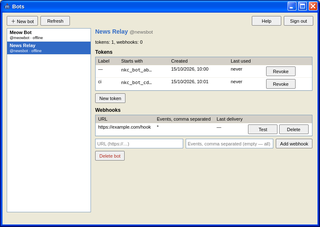
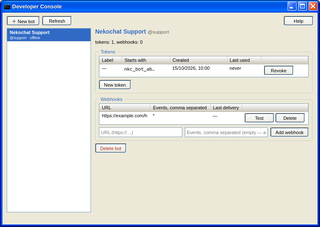
Developer Console: the add-on (was Bots) uses the session of the app instead of a second sign-in, its buttons are in the theme's XP style, group boxes and list headers like XP

Changed region(s): [[0.0, 0.0, 1.0, 0.7093], [0.7812, 0.0617, 1.0, 0.1233], [0.3125, 0.1233, 0.5312, 0.1542]]

diff --git a/addons/bots/bots.js b/addons/bots/bots.js
@@ -1,17 +1,19 @@
-// Bots: create bots of your Nekochat account, issue and revoke their tokens, add webhooks and
+// Developer Console: create bots of your Nekochat account, issue and revoke their tokens, add webhooks and
 // test them (the Bot API, /api/bot). The same as the server's /devpanel, in a window of the
-// client. The sign-in token is kept in this window's memory only; it is never stored.
+// client. It uses the session of the client (the same token, no second sign-in); only when there
+// is none for this server does it ask for a user name and a password. A token is kept in this
+// window's memory only; the window never stores one.
 const $ = selector => document.querySelector(selector);
 const controls = window.windowControls || {};
 const rawServer = new URLSearchParams(location.search || location.hash.slice(1)).get('server') || '';
 const server = /^https?:\/\//i.test(rawServer) ? rawServer.replace(/\/+$/, '') : 'https://nekochat.komdu.is-cool.dev';
 const esc = value => String(value ?? '').replace(/[&<>"']/g, char => ({ '&': '&amp;', '<': '&lt;', '>': '&gt;', '"': '&quot;', "'": '&#039;' })[char]);
 const words = {
-  ru: { help: 'Справка', title: 'Боты', loginTitle: 'Вход', loginHint: 'Войдите своим аккаунтом Nekochat: боты принадлежат аккаунту.', username: 'Имя пользователя', password: 'Пароль', signIn: 'Войти', logout: 'Выйти', refresh: 'Обновить', newBot: '＋ Новый бот', botUsername: 'Имя бота (3–32 символа: буквы, цифры, _ . -)', botName: 'Отображаемое имя', create: 'Создать', cancel: 'Отмена', close: 'Закрыть', minimize: 'Свернуть', maximize: 'Развернуть', ok: 'ОК', copy: 'Копировать', copied: 'Скопировано',
+  ru: { help: 'Справка', title: 'Консоль разработчика', loginTitle: 'Вход', loginHint: 'Нужен вход в аккаунт Nekochat на этом сервере: боты принадлежат аккаунту. Если вы уже вошли в клиенте, этого окна вы не увидите.', username: 'Имя пользователя', password: 'Пароль', signIn: 'Войти', logout: 'Выйти', refresh: 'Обновить', newBot: '＋ Новый бот', botUsername: 'Имя бота (3–32 символа: буквы, цифры, _ . -)', botName: 'Отображаемое имя', create: 'Создать', cancel: 'Отмена', close: 'Закрыть', minimize: 'Свернуть', maximize: 'Развернуть', ok: 'ОК', copy: 'Копировать', copied: 'Скопировано',
     wrongLogin: 'Неверное имя или пароль.', loading: 'Загрузка…', done: 'Готово.', noBots: 'Ботов пока нет. Нажмите «Новый бот».', pickBot: 'Выберите бота слева.', bot: 'Бот', state: 'Состояние', online: 'в сети', offline: 'не в сети', tokens: 'Токены', webhooks: 'Вебхуки', remove: 'Удалить бот', revoke: 'Отозвать', revoked: 'отозван', label: 'Метка', prefix: 'Начало', created: 'Создан', lastUsed: 'Использован', never: 'ни разу', newToken: 'Новый токен', addWebhook: 'Добавить вебхук', url: 'Адрес (https://…)', events: 'События через запятую (пусто — все)', test: 'Проверить', delete: 'Удалить', lastDelivery: 'Последняя доставка', noTokens: 'Токенов нет.', noWebhooks: 'Вебхуков нет.', counts: 'токенов: {tokens}, вебхуков: {webhooks}',
     tokenTitle: 'Токен бота', tokenNote: 'Скопируйте токен сейчас: больше он не покажется. Он работает как пароль бота (Authorization: Bearer … или /ws?token=…).', secretTitle: 'Секрет вебхука', secretNote: 'Скопируйте секрет сейчас: больше он не покажется. Им подписывается каждый вызов (X-Neko-Signature: sha256=HMAC-SHA256).',
     confirmBot: 'Удалить бота {name} вместе с его токенами, вебхуками и сообщениями? Это нельзя отменить.', confirmRevoke: 'Отозвать этот токен? Бот с ним перестанет работать.', confirmWebhook: 'Удалить этот вебхук?', tokenLabel: 'Метка токена (необязательно)', testOk: 'Вебхук ответил: HTTP {status}.', testFail: 'Вебхук не ответил как надо: HTTP {status}.', sessionLost: 'Сессия закончилась. Войдите снова.' },
-  en: { help: 'Help', title: 'Bots', loginTitle: 'Sign in', loginHint: 'Sign in with your Nekochat account: bots belong to the account.', username: 'User name', password: 'Password', signIn: 'Sign in', logout: 'Sign out', refresh: 'Refresh', newBot: '＋ New bot', botUsername: 'Bot user name (3–32 characters: letters, digits, _ . -)', botName: 'Display name', create: 'Create', cancel: 'Cancel', close: 'Close', minimize: 'Minimize', maximize: 'Maximize', ok: 'OK', copy: 'Copy', copied: 'Copied',
+  en: { help: 'Help', title: 'Developer Console', loginTitle: 'Sign in', loginHint: 'Sign in with your Nekochat account on this server: bots belong to the account. If you are already signed in in the app, you will not see this.', username: 'User name', password: 'Password', signIn: 'Sign in', logout: 'Sign out', refresh: 'Refresh', newBot: '＋ New bot', botUsername: 'Bot user name (3–32 characters: letters, digits, _ . -)', botName: 'Display name', create: 'Create', cancel: 'Cancel', close: 'Close', minimize: 'Minimize', maximize: 'Maximize', ok: 'OK', copy: 'Copy', copied: 'Copied',
     wrongLogin: 'Wrong user name or password.', loading: 'Loading…', done: 'Done.', noBots: 'No bots yet. Click “New bot”.', pickBot: 'Pick a bot on the left.', bot: 'Bot', state: 'State', online: 'online', offline: 'offline', tokens: 'Tokens', webhooks: 'Webhooks', remove: 'Delete bot', revoke: 'Revoke', revoked: 'revoked', label: 'Label', prefix: 'Starts with', created: 'Created', lastUsed: 'Last used', never: 'never', newToken: 'New token', addWebhook: 'Add webhook', url: 'URL (https://…)', events: 'Events, comma separated (empty — all)', test: 'Test', delete: 'Delete', lastDelivery: 'Last delivery', noTokens: 'No tokens.', noWebhooks: 'No webhooks.', counts: 'tokens: {tokens}, webhooks: {webhooks}',
     tokenTitle: 'Bot token', tokenNote: 'Copy the token now: it is shown only once. It works as the bot’s password (Authorization: Bearer … or /ws?token=…).', secretTitle: 'Webhook secret', secretNote: 'Copy the secret now: it is shown only once. It signs every call (X-Neko-Signature: sha256=HMAC-SHA256).',
     confirmBot: 'Delete the bot {name} with its tokens, webhooks and messages? This cannot be undone.', confirmRevoke: 'Revoke this token? The bot using it stops working.', confirmWebhook: 'Delete this webhook?', tokenLabel: 'Token label (optional)', testOk: 'The webhook answered: HTTP {status}.', testFail: 'The webhook did not answer as expected: HTTP {status}.', sessionLost: 'The session ended. Sign in again.' },
@@ -37,6 +39,7 @@ function ask(text, withInput = false) {
   });
 }
 let jwt = '';
+let usingClient = false; // the token is the client's own: nothing to sign out of here
 let bots = [];
 let selected = null;
 let tokens = [];
@@ -45,12 +48,12 @@ const status = text => { $('#bots-status').textContent = text || ''; };
 async function api(path, { method = 'GET', body } = {}) {
   const response = await fetch(`${server}${path}`, { method, headers: { ...(jwt ? { Authorization: `Bearer ${jwt}` } : {}), ...(body ? { 'Content-Type': 'application/json' } : {}) }, body: body ? JSON.stringify(body) : undefined });
   const data = await response.json().catch(() => ({}));
-  if (response.status === 401 && jwt) { signOut(t('sessionLost')); throw new Error(t('sessionLost')); }
+  if (response.status === 401 && jwt) { signOut(t('sessionLost')); $('#bots-logout').hidden = false; throw new Error(t('sessionLost')); }
   if (!response.ok) throw new Error(typeof data?.detail === 'string' ? data.detail : `HTTP ${response.status}`);
   return data;
 }
 function showLogin(error = '') { $('#bots-login').hidden = false; $('#bots-panel').hidden = true; $('#bots-login-error').textContent = error; $('#bots-username').focus(); }
-function signOut(error = '') { jwt = ''; bots = []; selected = null; showLogin(error); }
+function signOut(error = '') { jwt = ''; usingClient = false; bots = []; selected = null; showLogin(error); }
 
 function renderList() {
   $('#bots-list').innerHTML = bots.length
@@ -64,12 +67,12 @@ function renderDetail() {
   const hookRows = hooks.length ? hooks.map(hook => `<tr data-hook="${hook.id}"><td class="bots-url">${esc(hook.url)}</td><td>${esc(hook.events || '*')}</td><td>${hook.last_status == null ? '—' : esc(`HTTP ${hook.last_status}`)}${hook.last_at ? `<br><small>${esc(time(hook.last_at))}</small>` : ''}</td><td><button type="button" data-action="test">${esc(t('test'))}</button> <button type="button" data-action="delete-hook">${esc(t('delete'))}</button></td></tr>`).join('') : `<tr><td colspan="4" class="bots-empty">${esc(t('noWebhooks'))}</td></tr>`;
   $('#bots-detail').innerHTML = `<h2>${esc(bot.display_name || bot.username)} <small>@${esc(bot.username)}</small></h2>
     <p>${esc(t('counts', { tokens: bot.token_count ?? tokens.length, webhooks: bot.webhook_count ?? hooks.length }))}</p>
-    <h3>${esc(t('tokens'))}</h3>
+    <fieldset class="bots-group"><legend>${esc(t('tokens'))}</legend>
     <div class="bots-table-wrap"><table class="bots-table"><tr><th>${esc(t('label'))}</th><th>${esc(t('prefix'))}</th><th>${esc(t('created'))}</th><th>${esc(t('lastUsed'))}</th><th></th></tr>${tokenRows}</table></div>
-    <div class="bots-row"><button type="button" data-action="new-token">${esc(t('newToken'))}</button></div>
-    <h3>${esc(t('webhooks'))}</h3>
+    <div class="bots-row"><button type="button" data-action="new-token">${esc(t('newToken'))}</button></div></fieldset>
+    <fieldset class="bots-group"><legend>${esc(t('webhooks'))}</legend>
     <div class="bots-table-wrap"><table class="bots-table"><tr><th>URL</th><th>${esc(t('events').split(' (')[0])}</th><th>${esc(t('lastDelivery'))}</th><th></th></tr>${hookRows}</table></div>
-    <form class="bots-row bots-hook-form" id="bots-hook-form"><input id="hook-url" type="url" placeholder="${esc(t('url'))}" required><input id="hook-events" placeholder="${esc(t('events'))}"><button type="submit">${esc(t('addWebhook'))}</button></form>
+    <form class="bots-row bots-hook-form" id="bots-hook-form"><input id="hook-url" type="url" placeholder="${esc(t('url'))}" required><input id="hook-events" placeholder="${esc(t('events'))}"><button type="submit">${esc(t('addWebhook'))}</button></form></fieldset>
     <div class="bots-row"><button type="button" data-action="delete-bot" class="bots-danger">${esc(t('remove'))}</button></div>`;
 }
 async function loadBots() { status(t('loading')); bots = await api('/api/bot'); if (!bots.some(bot => bot.id === selected)) selected = null; renderList(); await loadDetail(); status(''); }
@@ -116,7 +119,7 @@ $('#bots-login').onsubmit = async event => {
     const response = await fetch(`${server}/auth/login`, { method: 'POST', headers: { 'Content-Type': 'application/json' }, body: JSON.stringify({ username: $('#bots-username').value.trim(), password: $('#bots-password').value }) });
     const data = await response.json().catch(() => ({}));
     if (!response.ok || !data.access_token) { showLogin(response.status === 401 || response.status === 400 ? t('wrongLogin') : (typeof data.detail === 'string' ? data.detail : `HTTP ${response.status}`)); return; }
-    jwt = data.access_token; $('#bots-password').value = '';
+    jwt = data.access_token; usingClient = false; $('#bots-password').value = ''; $('#bots-logout').hidden = false;
     $('#bots-login').hidden = true; $('#bots-panel').hidden = false; renderDetail(); await loadBots();
   } catch (error) { showLogin(error.message); }
 };
@@ -133,7 +136,17 @@ $('#bots-logout').onclick = () => signOut();
 $('#close').onclick = () => controls.close?.(); $('#minimize').onclick = () => controls.minimize?.(); $('#maximize').onclick = () => controls.maximize?.();
 controls.getActiveTheme?.().then(theme => { if (theme?.cssUrl) $('#frame-theme').href = theme.cssUrl; }); controls.onThemeChanged?.(theme => { if (theme?.cssUrl) $('#frame-theme').href = theme.cssUrl; });
 controls.getDisplaySettings?.().then(display => { language = display?.language === 'en' ? 'en' : 'ru'; applyText(); }); controls.onDisplayChanged?.(display => { language = display?.language === 'en' ? 'en' : 'ru'; applyText(); });
-applyText(); showLogin();
+applyText();
+// The client keeps its session in localStorage (the same origin as this window); use it when it is for this server.
+async function startWithClientSession() {
+  let saved = '', savedServer = '';
+  try { saved = localStorage.getItem('nk_token') || ''; savedServer = (localStorage.getItem('nk_server_url') || '').replace(/\/+$/, ''); } catch {}
+  if (!saved || savedServer !== server) { showLogin(); return; }
+  jwt = saved; usingClient = true;
+  try { $('#bots-login').hidden = true; $('#bots-panel').hidden = false; $('#bots-logout').hidden = true; renderDetail(); await loadBots(); }
+  catch { if (usingClient) { signOut(); } $('#bots-logout').hidden = false; }
+}
+startWithClientSession();
 // XP click sound on buttons, like in the chat window.
 document.addEventListener('click', event => { if (!event.target.closest?.('button')) return; let scheme = 'xp', volume = 72; try { scheme = localStorage.getItem('nk_sound_scheme') || 'xp'; volume = Number(localStorage.getItem('nk_sound_volume') ?? 72); } catch {} if (scheme === 'none' || !(volume > 0)) return; const audio = new Audio(window.nkSoundUrl ? window.nkSoundUrl('navigation') : 'assets/sounds/navigation.wav'); audio.volume = Math.min(1, volume / 100); audio.play().catch(() => {}); });
 // The Help of Bots, in the Help viewer of Windows XP.

diff --git a/addons/bots/bots.html b/addons/bots/bots.html
@@ -2,12 +2,12 @@
 <html lang="ru">
 <head>
   <meta charset="UTF-8"><meta name="viewport" content="width=device-width, initial-scale=1"><base href="{{APP}}">
-  <title>Nekochat Reloaded Bots</title><link id="frame-style" rel="stylesheet" href="assets/css/style.css"><link id="frame-theme" rel="stylesheet" href="data:text/css,"><link rel="stylesheet" href="assets/css/theme-settings.css"><link rel="stylesheet" href="{{ADDON}}bots.css"><link rel="stylesheet" href="assets/css/theme-controls.css">
+  <title>Nekochat Reloaded Developer Console</title><link id="frame-style" rel="stylesheet" href="assets/css/style.css"><link id="frame-theme" rel="stylesheet" href="data:text/css,"><link rel="stylesheet" href="assets/css/theme-settings.css"><link rel="stylesheet" href="{{ADDON}}bots.css"><link rel="stylesheet" href="assets/css/theme-controls.css">
 {{BRIDGE}}
 </head>
 <body>
   <div class="xp-window settings-window bots-window">
-    <header class="xp-titlebar"><span class="xp-app-icon has-icon" style="background-image:url('{{ADDON}}icon.png')"></span><span class="xp-title" id="bots-title">Боты</span><div class="xp-window-controls"><button id="minimize" aria-label="Свернуть"></button><button id="maximize" aria-label="Развернуть"></button><button id="close" aria-label="Закрыть"></button></div></header>
+    <header class="xp-titlebar"><span class="xp-app-icon has-icon" style="background-image:url('{{ADDON}}icon.png')"></span><span class="xp-title" id="bots-title">Консоль разработчика</span><div class="xp-window-controls"><button id="minimize" aria-label="Свернуть"></button><button id="maximize" aria-label="Развернуть"></button><button id="close" aria-label="Закрыть"></button></div></header>
     <div class="xp-body-frame"><i class="xp-side xp-side-left"></i><main class="properties bots">
       <form class="bots-login" id="bots-login">
         <h1 data-t="loginTitle">Вход</h1>

diff --git a/addons/bots/bots.css b/addons/bots/bots.css
@@ -22,10 +22,11 @@ html, body { width: 100%; height: 100%; margin: 0; overflow: hidden; background:
 .bots-detail { flex: 1; min-width: 0; overflow: auto; padding: 0 2px; }
 .bots-detail h2 { margin: 0 0 4px; font-size: 14px; color: var(--xp-theme-highlight, #0a246a); }
 .bots-detail h2 small { color: var(--xp-theme-graytext, #666); font-weight: normal; }
-.bots-detail h3 { margin: 10px 0 4px; font-size: 12px; }
+.bots-group { margin: 8px 0 0; padding: 4px 8px 8px; border: 1px solid var(--xp-theme-buttonshadow, #d0d0bf); border-radius: 3px; }
+.bots-group legend { padding: 0 4px; color: var(--xp-theme-highlight, #0046d5); font-weight: normal; }
 .bots-table-wrap { overflow: auto; border: 1px solid #7f9db9; background: #fff; }
 .bots-table { width: 100%; border-collapse: collapse; color: #000; }
-.bots-table th { padding: 3px 6px; border-bottom: 1px solid #d6d2c2; background: var(--xp-theme-buttonface, #ebeadb); text-align: left; font-weight: normal; white-space: nowrap; }
+.bots-table th { padding: 3px 6px; border-right: 1px solid #d6d2c2; border-bottom: 1px solid #aca899; background: linear-gradient(#fff, var(--xp-theme-buttonface, #ebeadb) 85%, #d6d2c2); text-align: left; font-weight: normal; white-space: nowrap; }
 .bots-table td { padding: 3px 6px; border-bottom: 1px solid #f0efe7; vertical-align: top; }
 .bots-list-wrap .bots-table tr[data-id] { cursor: default; }
 .bots-list-wrap .bots-table tr[data-id]:hover td { background: color-mix(in srgb, var(--xp-theme-highlight, #316ac5) 12%, #fff); }

diff --git a/addons/bots/Description.md b/addons/bots/Description.md
@@ -1,3 +1,3 @@
-# Bots
+# Developer Console
 
-Create and manage bots of your Nekochat account: bot tokens, webhooks and a test call for each webhook. Works with any Nekochat server that has the Bot API (`/api/bot`).
+Create and manage bots of your Nekochat account: bot tokens, webhooks and a test call for each webhook. It uses the account you are already signed in with in the app, and works with any Nekochat server that has the Bot API (`/api/bot`).
